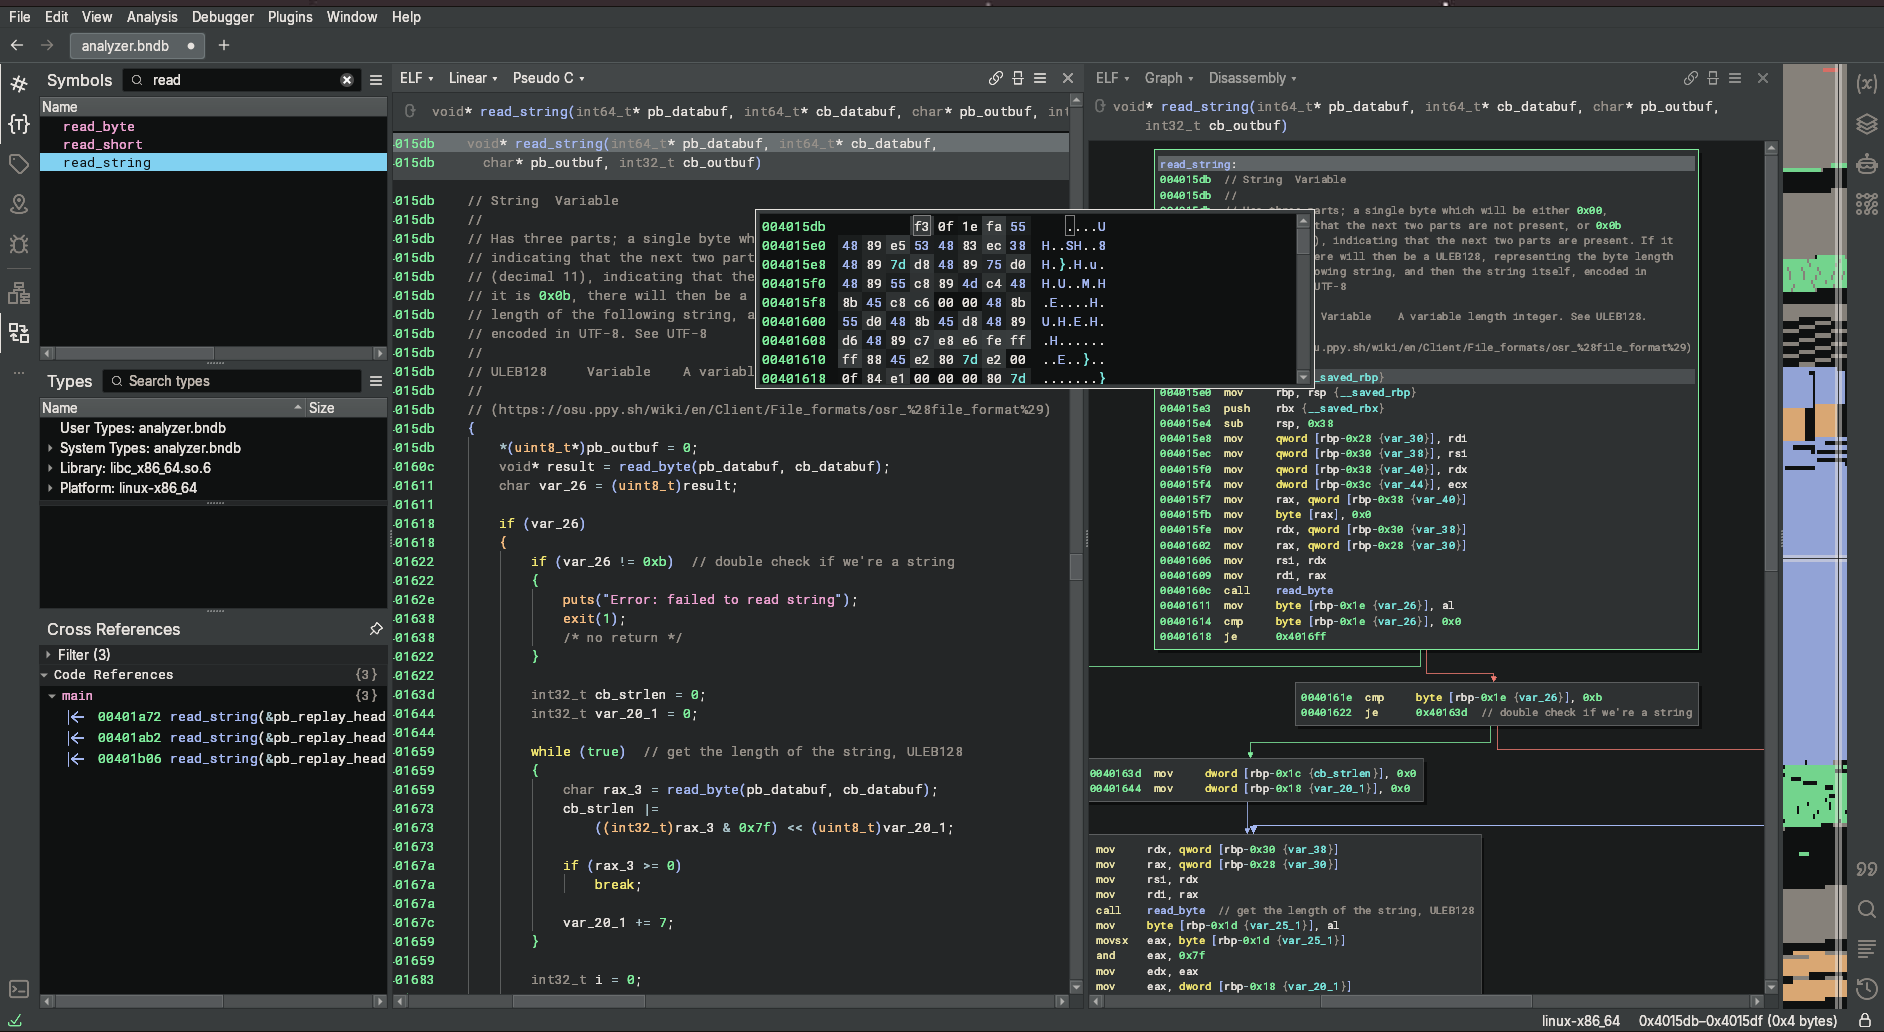
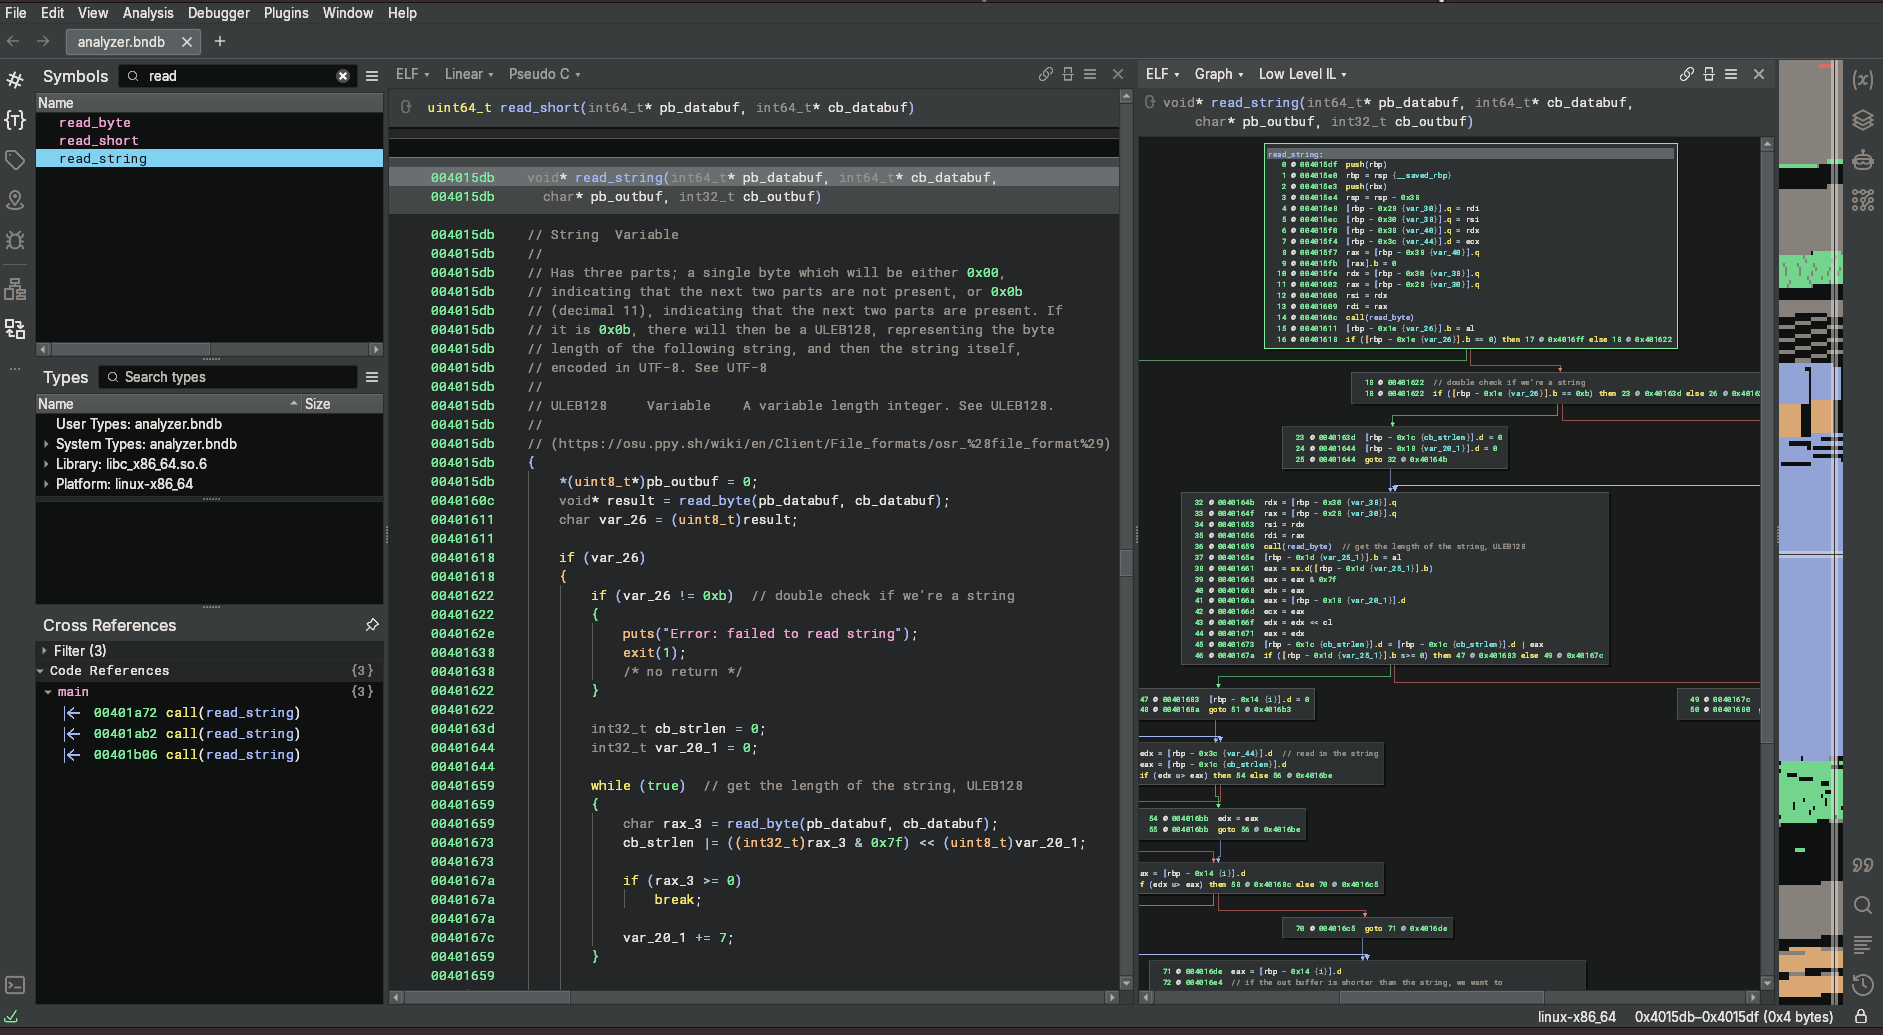
Continue work on writeup

Changed region(s): [[0.0, 0.0, 1.0, 1.0], [0.4928, 0.5581, 0.5236, 0.5891]]

diff --git a/osu!gaming25/miss_analyzer/readme.md b/osu!gaming25/miss_analyzer/readme.md
@@ -66,7 +66,7 @@ wiki](https://osu.ppy.sh/wiki/en/Client/File_formats/osr_%28file_format%29).
 This shows that the data contained within the file is expected to be written in
 a specific order, following both fixed and variable data sizes.
 
-Using Binary Ninja ([\*_cough_\*](https://youtu.be/j69knNADinw)), we can look at
+Using Binary Ninja\*, we can look at
 the implementation of each of these parsers, starting at the most basic and
 move our way up.
 
@@ -74,7 +74,68 @@ move our way up.
 
 ![](screenshots/read_byte_decomp_binja.png)
 
+This primitive is immediately fairly simple, but shows the general approach for
+parsing out data. The function reads a byte from the buffer _if and only if_ the
+length of the read buffer is non-zero. Once read, the head of the buffer is
+incremented, and the count is decremented. As both the buffer and count are
+passed in by reference, this update is made to ensure that subsequent calls read
+the most relevant data, but also avoids performing an out-of-bound read.
 
+For a single byte? This is just done once. Evidently, for larger data types,
+additional bytes will have to be read in at a given time. What is nice, however,
+is that this primitive is used _within_ all other parsers. Therefore, all
+parsers operate in a similar manner
+
+### Short parser
+
+![](screenshots/read_short_decomp_binja.png)
+
+As previosuly alluded to, this parser namely calls `read_byte` twice to read the
+lower significant, than most signifcant byte of the short, in that order. For
+one reason or another, the most significant byte is multiplied by the _float_
+`256.0`, rather than just an 8-bit shift, then added to the lower byte. Either
+way, this achieves the operation of extracting two bytes, in little endian
+order, and generating the corresponding short.
+
+### String parser
+
+This component is the most complex of the three parsers within the binary, but
+the documentation on the osu! wiki helps out greatly here.
+
+> Has three parts; a single byte which will be either 0x00, indicating that the
+> next two parts are not present, or 0x0b (decimal 11), indicating that the next
+> two parts are present. If it is 0x0b, there will then be a ULEB128,
+> representing the byte length of the following string, and then the string
+> itself, encoded in UTF-8. See UTF-8
+
+As such, we can look at each of these three parts to the string parser
+
+![](screenshots/read_string_decomp_binja_0.png)
+
+This first chunk determines if the string buffer is even present in the file. If
+it is, the parser (and file format, for that matter), expects this byte to be
+`0x0b` if the string is present or `0x00` if not.
+
+![](screenshots/read_string_decomp_binja_1.png)
+
+Given that the string is found within the buffer, the parser will try to
+determine the length of the string. As specified within the documentation, this
+string length is specified using the
+[ULEB128](https://en.wikipedia.org/wiki/LEB128) data type format. Wikipedia has
+really good pseudocode to generate/parse these formats, but the tldr would be
+that this data format allows an integer to be represented by chunks of 7 bits,
+using the most significant bit as an indicator there exist future chunks
+corresponding to the value.
+
+![](screenshots/read_string_decomp_binja_2.png)
+
+Last but not least, once we get the actual length of the string, we can read
+_out_ the bytes into a buffer passed in by reference.
+
+Importantly, this out buffer _is_ on the stack of the caller function (which
+would be the `main` function in our case), but the size of the out buffer is
+specified, and the length of the data read to the buffer is the minimum between
+the string length and buffer size. Therefore, no out-of-bound writes
 
 Each of these data points are printed to the terminal immediately after parsing
 that part of the file.
@@ -88,6 +149,8 @@ beginning of the program, which namely are `execve` and `stub_execveat`. This
 would namely mean that the program would be disallowed from spawning new
 processes. This does not affect anything in our current program flow, but, as a
 spoiler, it makes things a little less fun. (\*_cough_\*)
+
+<!--todo: show the main function in some meaningful way-->
 
 ## vulnerabilities
 
@@ -239,4 +302,6 @@ str_buf --> |7061796c6f616420|     |payload |
             '----------------'
 ```
 
-This means, the name of the replay can be specified
+
+> \* I was given a year's license to use Binary Ninja for ICC 2025 under the
+> condition I create this writeup. So, ([\*_cough_\*](https://youtu.be/j69knNADinw))
